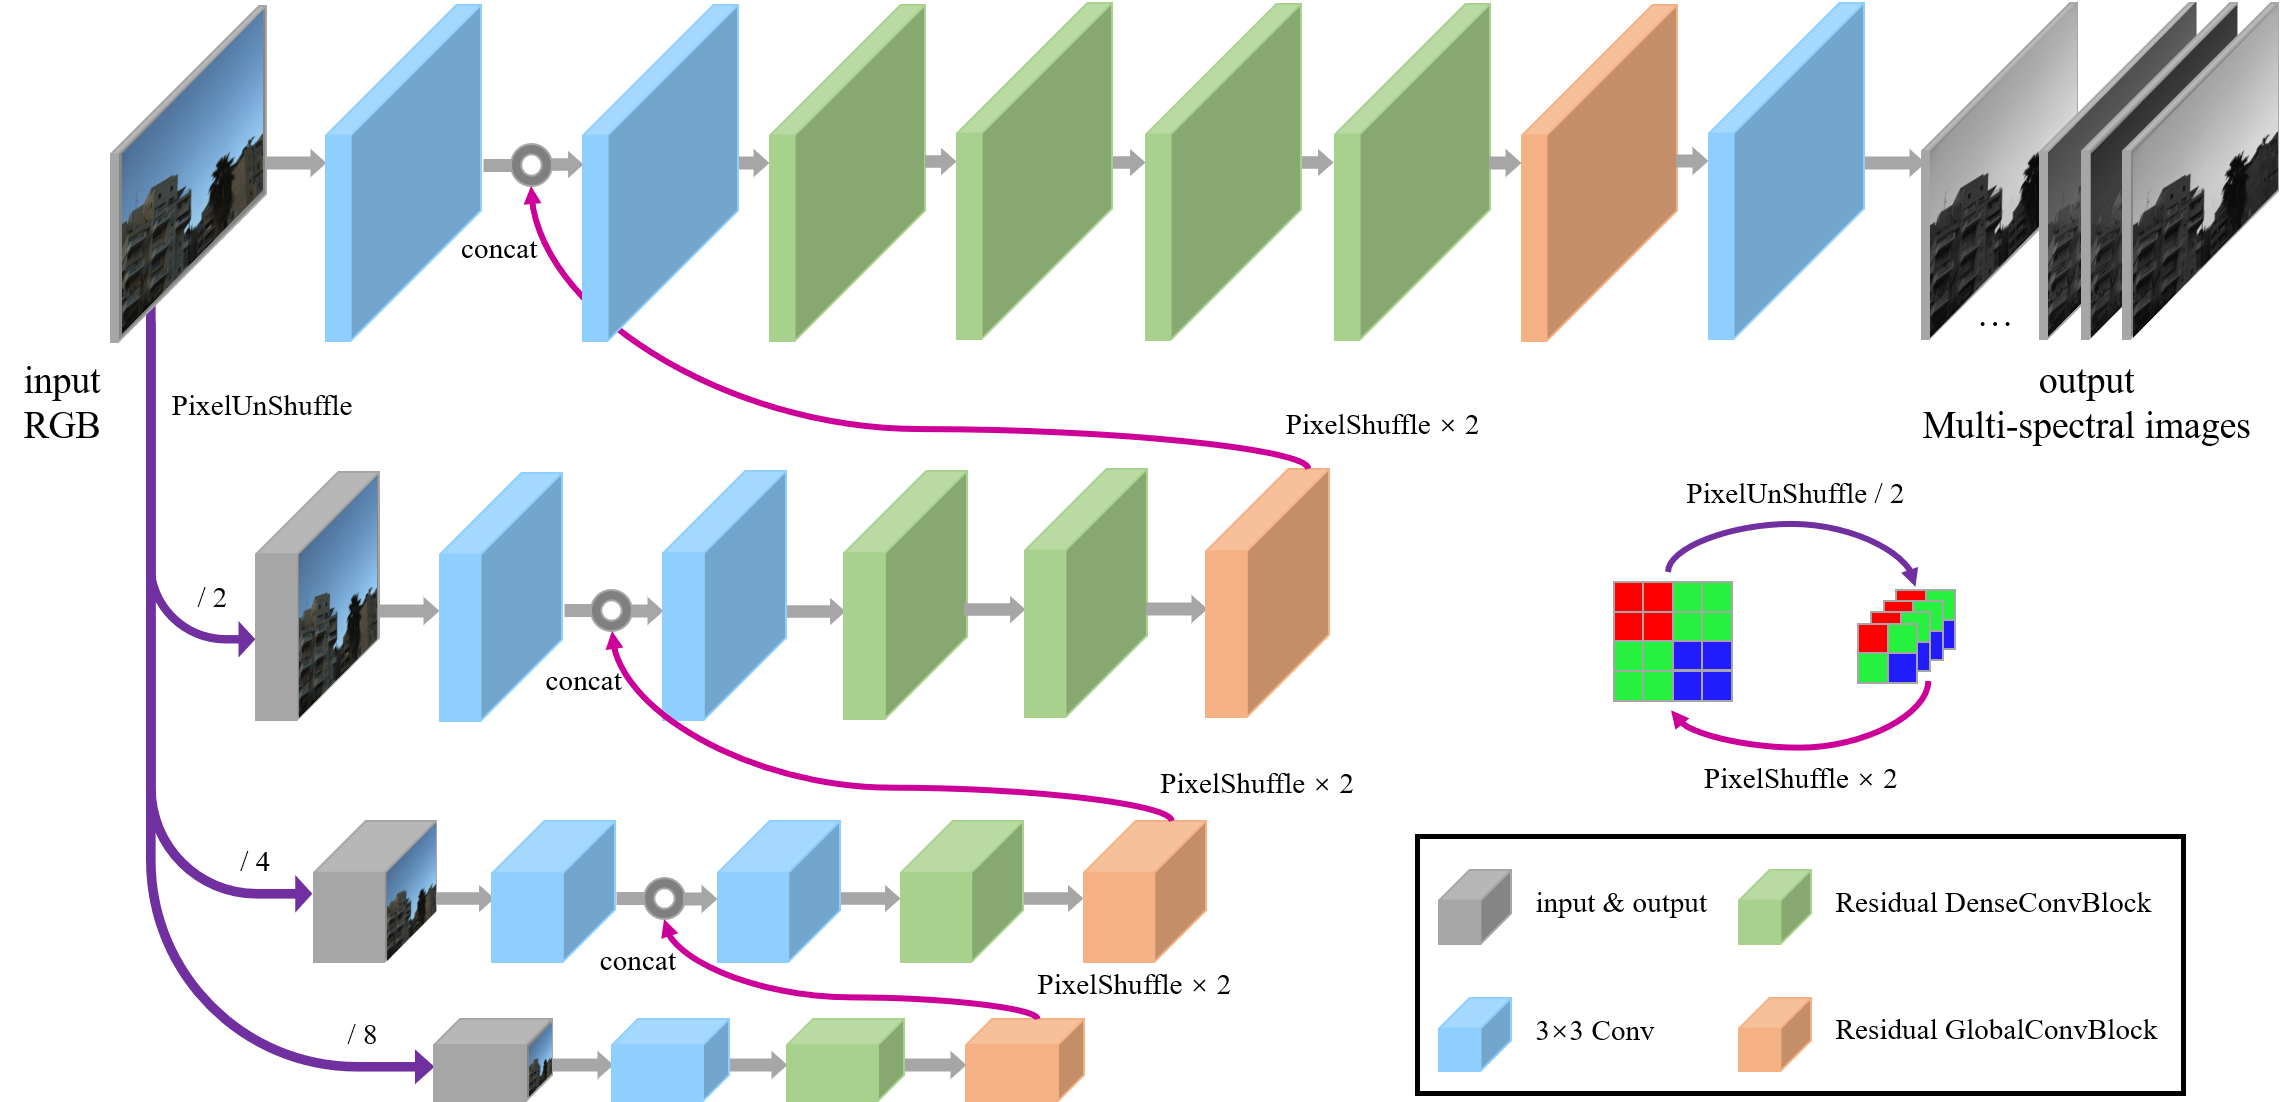
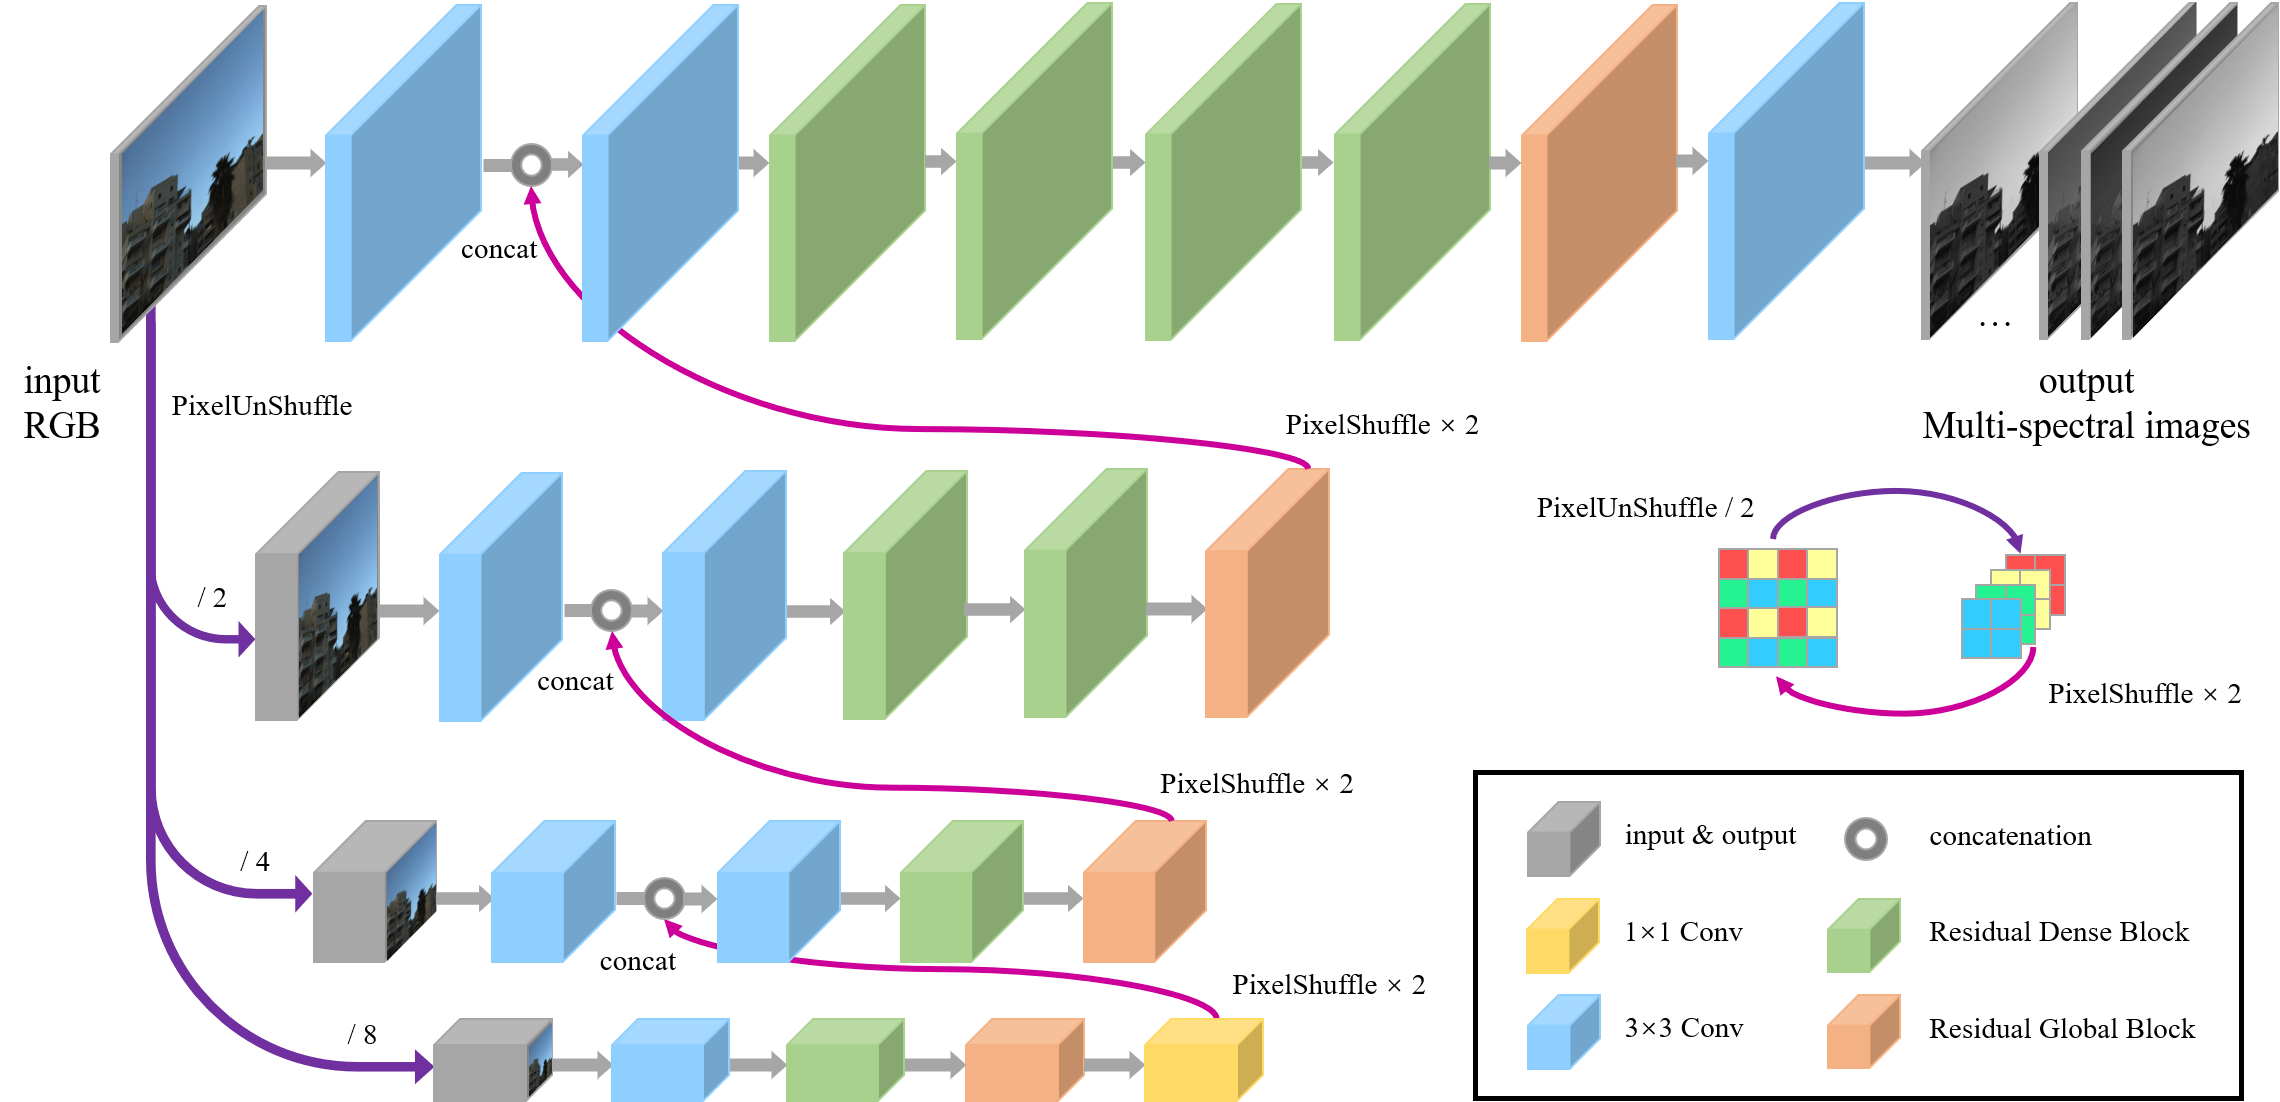
Add files via upload

Changed region(s): [[0.3114, 0.4319, 0.9965, 1.0], [0.2803, 0.833, 0.3114, 0.8639], [0.2491, 0.6171, 0.2803, 0.6479]]

diff --git a/README.md b/README.md
@@ -1,6 +1,14 @@
 # Hierarchical Regression Network for Spectral Reconstruction from RGB Images
 
-The README file for NTIRE 2020 Spectral Reconstruction Challenge of Team OrangeCat: Hierarchical Regression Network for Spectral Reconstruction from RGB Images
+The README file for NTIRE 2020 Spectral Reconstruction Challenge of Team OrangeCat: Hierarchical Regression Network for Spectral Reconstruction from RGB Images. Our method achieves the 1st place in track 2: real-world images.
+
+## HRNet architecture
+
+* The main network (different layers are connected by PixelShuffle and PixelUnShuffle):
+<img src="./img/network.png" width="1000"/>
+
+* The proposed ResDB and ResGB used in main network:
+<img src="./img/network2.png" width="1000"/>
 
 ## File structure
 
@@ -58,14 +66,6 @@ NTIRE 2020 Spectral Reconstruction Challenge
 * Pytorch 1.0.0
 * Cuda 8.0
 
-## Network architecture
-
-The main network:
-<img src="./img/network.png" width="500"/>
-
-The blocks used in main network:
-<img src="./img/network2.png" width="600"/>
-
 ## Train
 * Run `train.py`.
 * Change `baseroot` that contains training data.
@@ -90,14 +90,46 @@ Note that the data should be first generated from different models (please run `
 * It will output 1 ensemble result of 8 generated data.
 
 For each track, we use the "best" epoch for ensemble:
-<img src="./img/compare.png" width="500"/>
+<img src="./img/compare.png" width="1000"/>
 
 ## Visualize
 * Run `train_visualize.py` or `validation_visualize.py` or `test_visualize.py`.
 
-An example is like this:
-<img src="./img/result.png" width="500"/>
+## Generated spectral images
+* Track 1 comparison with other methods:
+<img src="./img/track1.png" width="1000"/>
+<img src="./img/add11.png" width="1000"/>
+<img src="./img/add21.png" width="1000"/>
+<img src="./img/add31.png" width="1000"/>
+* Track 2 comparison with other methods:
+<img src="./img/track2.png" width="1000"/>
+<img src="./img/add12.png" width="1000"/>
+<img src="./img/add22.png" width="1000"/>
+<img src="./img/add32.png" width="1000"/>
+* Track 1 all 31 bands (400nm - 700nm) of one image:
+<img src="./img/add41.png" width="1000"/>
+* Track 2 all 31 bands (400nm - 700nm) of one image:
+<img src="./img/add42.png" width="1000"/>
+
+## Generated infrared images
+<img src="./img/nir.png" width="1000"/>
 
 ## Link to pre-trained models and testing results
 * Pre-trained models: [OneDrive link](https://portland-my.sharepoint.com/:f:/g/personal/yzzhao2-c_ad_cityu_edu_hk/Em_8mi1dNLRKkaq2_lXsv8MBZbpuQ_IayEYs1OZe1fLx8A?e=b1T6UI). After downloading it, please put them to right folders.
 * Testing results: [OneDrive link](https://portland-my.sharepoint.com/:f:/g/personal/yzzhao2-c_ad_cityu_edu_hk/Emuplm0cx1FFurDAjSuIs00Bx_qr2d4erDFfvN_nDxeThg?e=hM5nqA)
+
+
+## Reference
+
+If you have any question, please do not hesitate to contact yzzhao2-c@my.cityu.edu.hk
+
+If you find this code useful to your research, please consider citing:
+
+```
+@article{zhao2020hierarchical,
+  title={Hierarchical Regression Network for Spectral Reconstruction from RGB Images},
+  author={Zhao, Yuzhi and Po, Lai-Man and Yan, Qiong and Liu, Wei and Lin, Tingyu},
+  booktitle={arXiv preprint arXiv:2005.04703},
+  year={2020},
+}
+```
